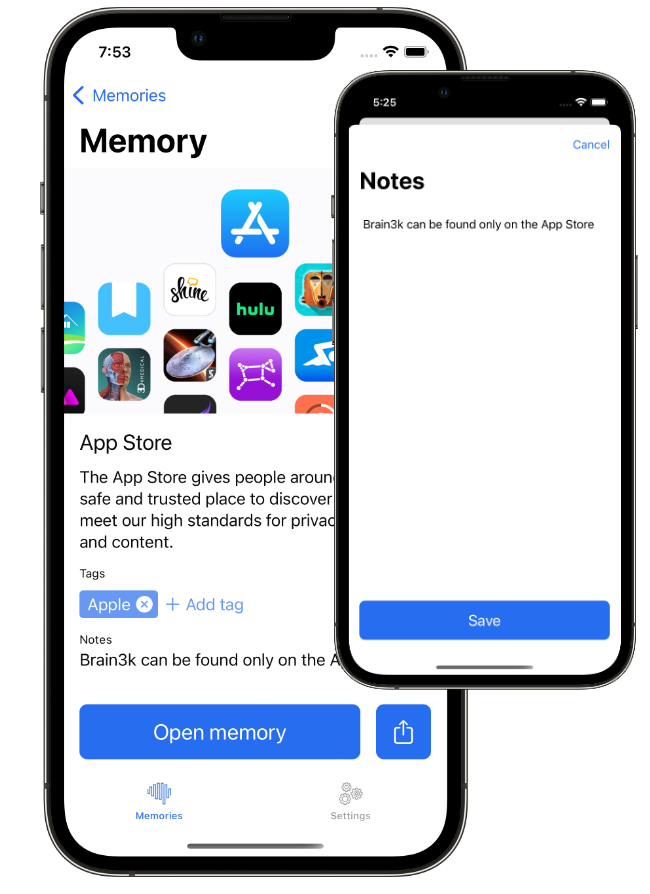
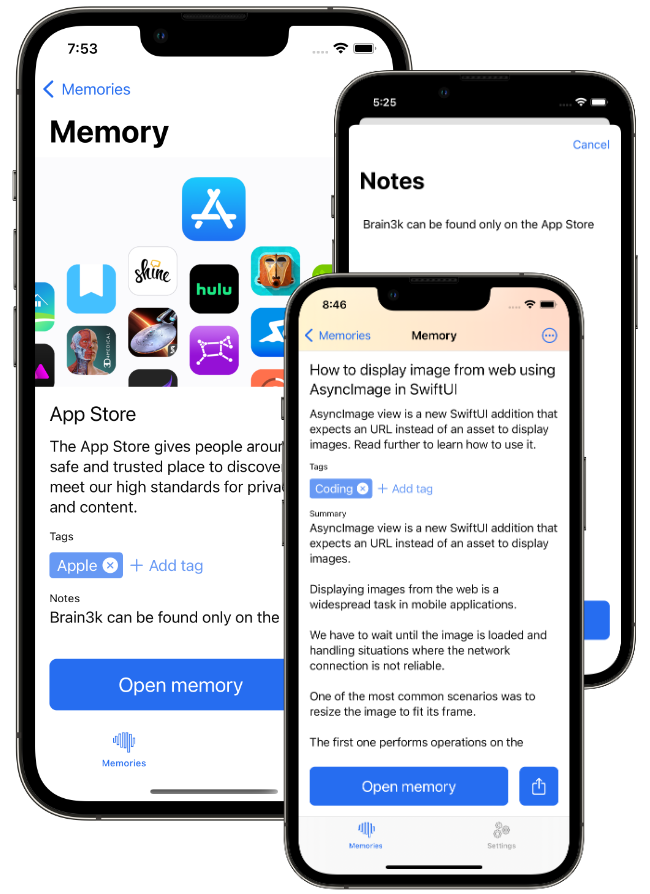
Added information about summary to the landing page

diff --git a/firebase/public/index.html b/firebase/public/index.html
@@ -99,14 +99,16 @@
 								</li>
 								<!-- APPSTORE BADGE -->
 								<li class="nl-simple" aria-haspopup="true">
-									<a href="https://apps.apple.com/app/brain3k/id1587505104" class="store header-store">
+									<a href="https://apps.apple.com/app/brain3k/id1587505104"
+										class="store header-store">
 										<img class="appstore-header" src="images/appstore.svg"
 											alt="Download on the App Store">
 									</a>
 								</li>
 								<!-- MAC APPSTORE BADGE -->
 								<li class="nl-simple" aria-haspopup="true">
-									<a href="https://apps.apple.com/app/brain3k/id1587505104" class="store header-store">
+									<a href="https://apps.apple.com/app/brain3k/id1587505104"
+										class="store header-store">
 										<img class="macstore-header" src="images/macstore.svg"
 											alt="Download on the Mac App Store">
 									</a>
@@ -241,8 +243,8 @@
 									seeing directories and items that you added there years ago. Brain3k offers a
 									quicker approach. Don't waste your time on managing bookmarks anymore. Put URLs in
 									the app (directly from a web browser using a share extension) and let the algorithms
-									do the rest. Brain3k will analyze provided URL and use title, description, keywords
-									and more to provide correct search results.</p>
+									do the rest. Brain3k will analyze provided URL and use title, description, summary,
+									keywords and more to provide correct search results.</p>
 							</div>
 						</div> <!-- END TEXT BLOCK -->
 					</div> <!-- End row -->
@@ -261,9 +263,9 @@
 								<ul class="simple-list">
 									<li class="list-item">
 										<p class="p-lg">You don't have to remember the correct domain name to find the
-											bookmark you are looking for. When searching for memories, type what you
-											remember. Each memory is analyzed, and Brain3k provides you highest matching
-											results.</p>
+											bookmark you are looking for. When searching for memories, just type what
+											you remember. Each memory is analyzed, and Brain3k provides you highest
+											matching results.</p>
 									</li>
 									<li class="list-item">
 										<p class="p-lg">You can improve search results by adding your notes and tags.
@@ -312,7 +314,7 @@
 									</div>
 									<!-- Text -->
 									<div class="cbox-txt">
-										<h5 class="h5-sm">Add Tags</h5>
+										<h5 class="h5-sm">Tags</h5>
 										<p class="p-lg">With tags, you can add additional information that will simplify
 											searching. Use them to group your memories based on the project, purpose, or
 											mood.</p>
@@ -325,7 +327,7 @@
 									</div>
 									<!-- Text -->
 									<div class="cbox-txt">
-										<h5 class="h5-sm">Add Notes</h5>
+										<h5 class="h5-sm">Notes</h5>
 										<p class="p-lg">Not everything can be added in short tags. It is where the notes
 											section shines. Your notes will be used for search as well.</p>
 									</div>
@@ -333,14 +335,13 @@
 								<!-- CONTENT BOX #3 -->
 								<div class="cbox">
 									<!-- Icon -->
-									<div class="cbox-ico ico-65 stateblue-color"><span class="flaticon-image"></span>
+									<div class="cbox-ico ico-65 stateblue-color"><span class="flaticon-funnel"></span>
 									</div>
 									<!-- Text -->
 									<div class="cbox-txt">
-										<h5 class="h5-sm">Share Memories</h5>
-										<p class="p-lg">Brain3k is a private experience. Only you have access to your
-											collection. But with the share button, you can quickly copy or share
-											particular memory outside.</p>
+										<h5 class="h5-sm">Summary</h5>
+										<p class="p-lg">Brain3k automatically summarizes articles and puts that short
+											excerpt on the memory page. That summary is also used for search.</p>
 									</div>
 								</div>
 							</div>
